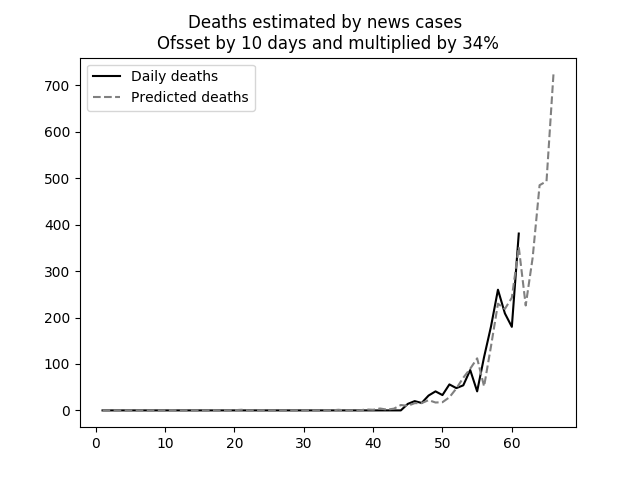
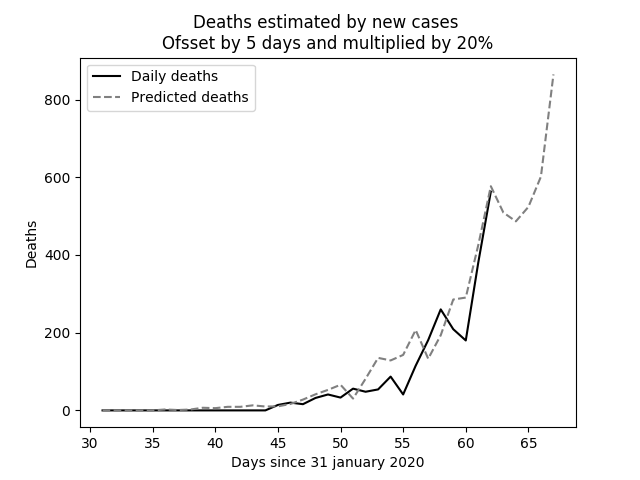
1 April run

diff --git a/src/curvefit.py b/src/curvefit.py
@@ -1,0 +1,160 @@
+
+import numpy as np
+import pandas as pd
+from scipy.optimize import curve_fit # curve-fit() function imported from scipy
+from matplotlib import pyplot as plt
+
+# Constants
+DAYOFFSET = 43860 #Excel date for start of the data 31 Jan 2020 for CSV
+EXCELDTFACT = 24*60*60*1000000000 # Excel date format conversion factor
+EXCELDTOFFSET = 18291 # Excel date for start of the data 31 Jan 2020
+LARGENUMBER = 9999999999.9 # Large starting number for error
+
+
+# Parameters
+prediction = 5 #  Number of days to predict for
+# Factor and offset ranges withing which to seek optimum
+factLow = 0.2
+factHigh = 0.4
+factIncrement = 0.01
+offsetLow = 5
+offsetHigh = 15
+
+# Test exponential function with coefficients as parameters
+def test(x, a, b):
+    return a*b**x
+
+# curve_fit() function takes the test-function
+# x-data and y-data as argument and returns
+# the coefficients a and b in param and
+# the estimated covariance of param in param_cov
+def exp_fit(DailyCases, Days, pDays):
+    Param, Param_cov = curve_fit(test, Days, DailyCases)
+
+    # ans stores the new y-data according to
+    # the coefficients given by curve-fit() function
+    Ans = (Param[0]*Param[1]**pDays)
+    return Ans, Param, Param_cov
+
+# Test assumption that on average a fraction of people who were diagnosed
+# an "offset" number of days ealier, die.
+def offset_fit(DailyCases, DailyDeaths, Days, pDays):
+    # Iterate over range of offsets and factors - brute force approach
+    noDays = len(Days)
+    PredictedDeaths = [0] * noDays
+    # Large starting number for error
+    lowestError = LARGENUMBER
+    # Calculate error for each number of days in offset range
+    for offset in range (offsetLow, offsetHigh):
+        fact = factLow
+        # For ech offset day calculate error for each factor
+        while fact <= factHigh:
+            error = 0
+            # Sum error for each day by comparing off-set daily cases
+            # with deaths
+            for i in range(offset, noDays):
+                PredictedDeaths[i] = DailyCases[i-offset] * fact
+                # Calculate square of error
+                error += abs(PredictedDeaths[i] - DailyDeaths[i])**2
+            if error < lowestError:
+                lowestError = error
+                bestOffset = offset
+                bestFact = fact
+            fact += factIncrement
+        #endwhile
+    #endfor
+
+    # ans stores the new y-data according to
+    # the coefficients given by curve-fit() function
+    DeathsAns = [0.0] * (noDays + prediction)
+    for i in range(bestOffset, noDays + prediction):
+        DeathsAns[i] = DailyCases[i-bestOffset] * bestFact
+
+    error = np.sqrt(lowestError/(noDays-bestOffset))
+    return DeathsAns, bestOffset, bestFact, error
+
+# Read data from Excel spreadsheet and map it into lists
+def prep_data():
+    # Create a dataframe from xlsx
+    df = pd.read_excel('DailyConfirmedCases.xlsx')
+
+    Dates = df["DateVal"].values.tolist()
+    Days = [d/EXCELDTFACT - EXCELDTOFFSET for d in Dates] #convert dates to day number
+
+    DailyCases = df["CMODateCount"].values.tolist()
+    DailyCases = np.nan_to_num(DailyCases)      #Replace NaNs with 0
+
+    DailyDeaths = df["DailyDeaths"].values.tolist()
+    DailyDeaths = np.nan_to_num(DailyDeaths)    #Replace NaNs with 0
+
+    # Create a new list for days that estimate is to be calculated for
+    noDays = len(Days)
+    pDays = Days.copy()
+
+    for i in range(noDays, noDays + prediction):
+        pDays.append(pDays[i-1]+1)
+
+    return Days, DailyCases, DailyDeaths, pDays
+
+def main():
+    # Read data from input file and create lists
+    Days, DailyCases, DailyDeaths, pDays = prep_data()
+
+    CasesAns, CasesParam, CasesParam_cov = exp_fit(DailyCases, Days, pDays)
+    print("Exponential funcion coefficients for new cases:")
+    print(CasesParam)
+    print("Covariance of coefficients:")
+    print(CasesParam_cov)
+
+    # Plot results
+    plt.title("Exponential curve fit to UK reported daily cases")
+    plt.plot(Days, DailyCases, '-', color ='red', label ="Daily cases")
+    plt.plot(pDays, CasesAns, '--', color ='blue', label ="Predicted cases")
+    plt.legend()
+    plt.ylabel("Cases")
+    plt.xlabel("Days since 31 january 2020")
+    plt.savefig("cases.png")
+    plt.show()
+    plt.close()
+
+    DeathsAns, DeathsParam, DeathsParam_cov = exp_fit(DailyDeaths, Days, pDays)
+    print("Exponential funcion coefficients for daily deaths:")
+    print(DeathsParam)
+    print("Covariance of coefficients:")
+    print(DeathsParam_cov)
+
+    plt.title("Exponential curve fit to UK reported daily deaths")
+    plt.plot(Days, DailyDeaths, '-', color ='black', label ="Daily deaths")
+    plt.plot(pDays, DeathsAns, '--', color ='grey', label ="Predicted deaths")
+    plt.legend()
+    plt.ylabel("Deaths")
+    plt.xlabel("Days since 31 january 2020")
+    plt.savefig("deaths.png")
+    plt.show()
+    plt.close()
+
+    # Estimate best offset and factor to use new daily cases as
+    # predictor for deaths
+    DeathsAns, offset, fact, error = offset_fit(DailyCases, DailyDeaths, Days, pDays)
+    print("Best offset and factor")
+    print (offset, "{:,.0f}%".format(fact *100))
+    #print(bestOffset, bestFact)
+    print("Average Error")
+    print("{:,.2f}".format(error))
+
+    # Plot results
+    title =  "Deaths estimated by new cases \n"
+    title += "Ofsset by {:,.0f} days ".format(offset)
+    title += "and multiplied by {:,.0f}%".format(fact *100)
+    plt.title(title)
+    plt.plot(Days, DailyDeaths, '-', color ='black', label ="Daily deaths")
+    plt.plot(pDays, DeathsAns, '--', color ='grey', label ="Predicted deaths")
+    plt.legend()
+    plt.ylabel("Deaths")
+    plt.xlabel("Days since 31 january 2020")
+    plt.savefig("cases-deaths.png")
+    plt.show()
+    plt.close()
+
+if __name__ == '__main__':
+    main()

diff --git a/src/download-uk-data.py b/src/download-uk-data.py
@@ -1,0 +1,10 @@
+import wget
+import os
+
+filePath = 'DailyConfirmedCases.xlsx'
+url = "https://www.arcgis.com/sharing/rest/content/items/e5fd11150d274bebaaf8fe2a7a2bda11/data"
+
+if os.path.exists(filePath):
+    os.remove(filePath)
+
+wget.download(url, filePath)
